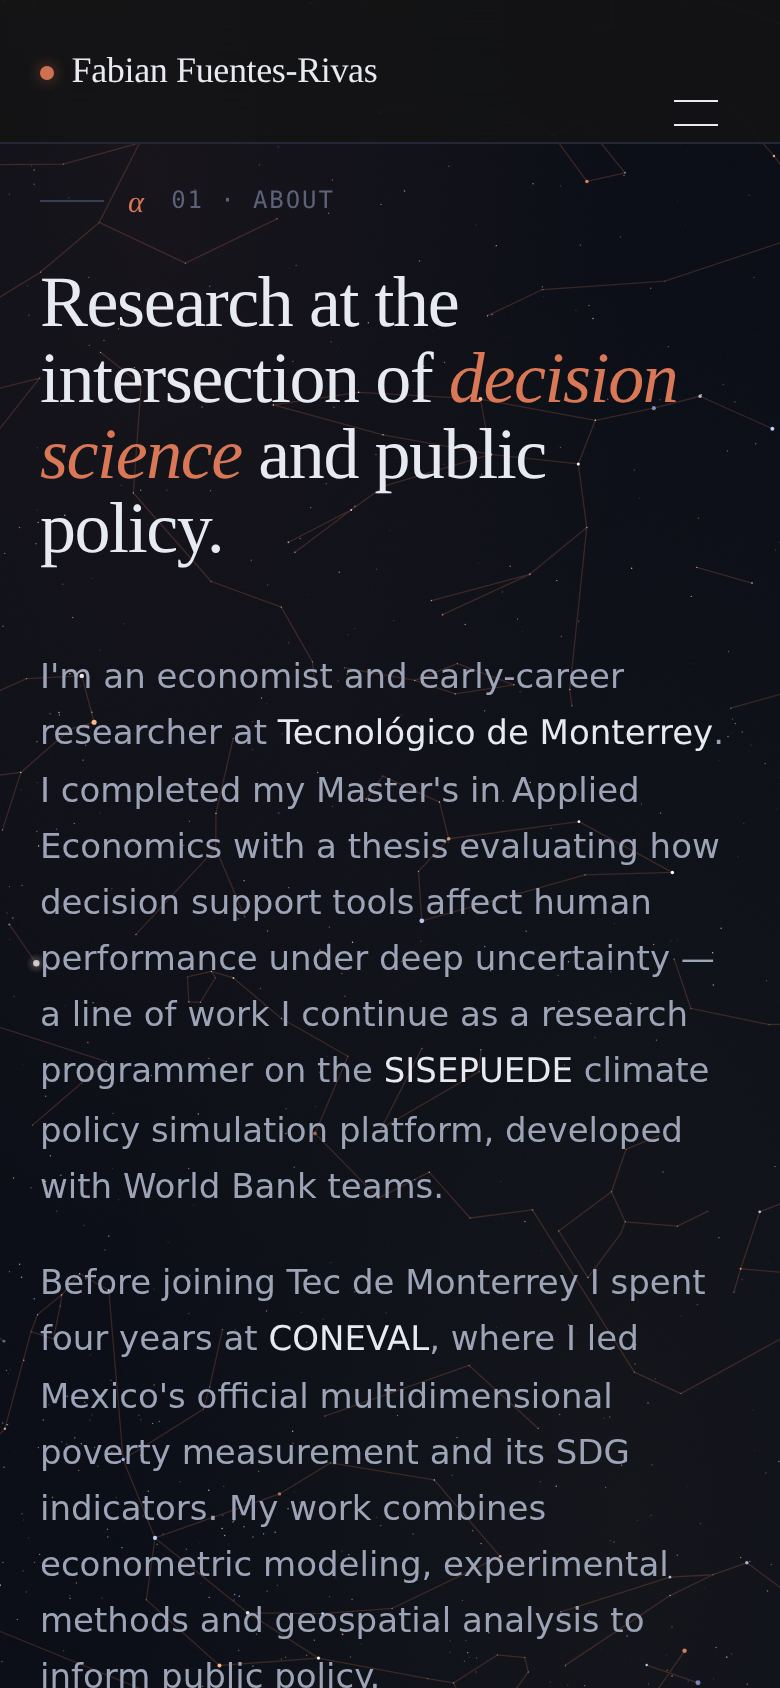
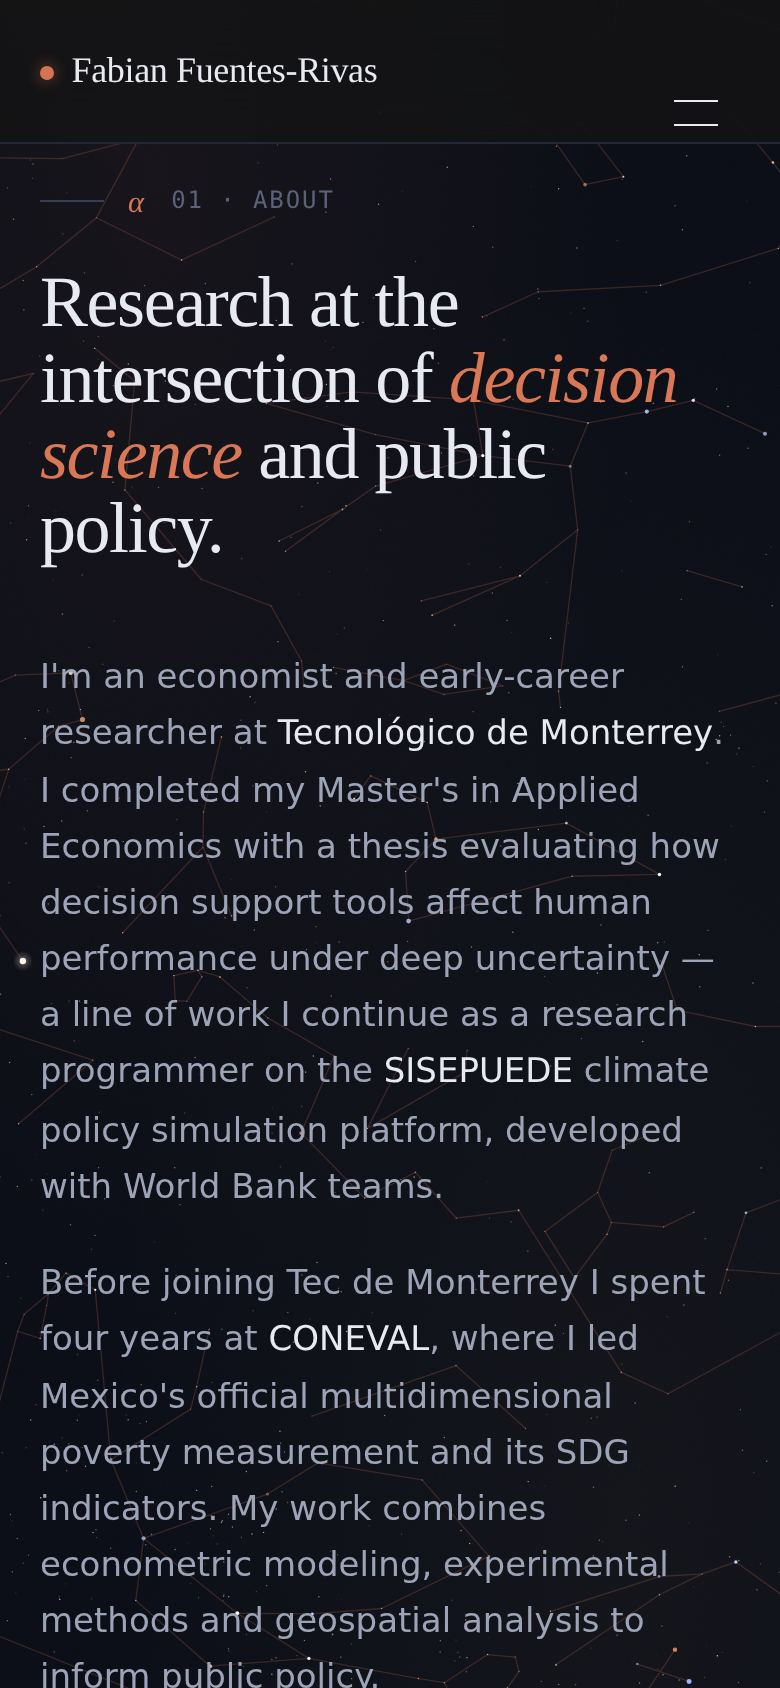
Adapt the live sky to each visitor's location via IP geolocation
The starfield already supported per-observer reprojection but the only
way the viewer's location got applied was via the browser geolocation
prompt — intrusive and mostly ignored. Replace it with silent IP-based
geolocation so the sky automatically shows the stars above wherever the
visitor happens to be reading from.

Observer resolution:
- On first catalogue load, fire an asynchronous fetch to ipapi.co.
- If that fails (offline, CORS, rate limit) fall back to ipwho.is.
- If both fail the default Mexico City observer stays in place.
- Each request has a 3.5 s manual timeout and runs with cache: no-store
  so the lookup reflects the current network. No PII is stored on the
  page; only the returned latitude / longitude / city drive rendering.

UI update:
- Hero meta location pill is now a structured element with two dynamic
  spans (#hero-location-coord and #hero-location-city). When the IP
  lookup resolves, both are updated in place — 'Tonight · 51.5°N ·
  London' for a visitor in London, 'Tonight · 28.63°N · Chihuahua' for
  someone on that side of Mexico, and so on. Southern hemisphere is
  handled (°S suffix).
- If the lookup fails the pill keeps its default of Mexico City so the
  text never goes blank.

Sky projection:
- applyObserver() sets lat / lon / label atomically and triggers a
  reproject so the dome immediately reflects the new horizon.

Also:
- Removed the legacy navigator.geolocation flow, which prompted the
  user and was rarely granted.
[…]

Changed region(s): [[0.0923, 0.4005, 0.1231, 0.4313], [0.0308, 0.5545, 0.0615, 0.5853]]

diff --git a/js/script.js b/js/script.js
@@ -334,23 +334,71 @@
     );
   }
 
-  // Optional: geolocate the user to reproject against their horizon.
-  // Silent — no prompt unless we explicitly request it below. We only
-  // ask once per visit and fall back to Mexico City.
-  function requestGeo() {
-    if (!("geolocation" in navigator)) return;
-    navigator.geolocation.getCurrentPosition(
-      (pos) => {
-        observer.lat = pos.coords.latitude;
-        observer.lon = pos.coords.longitude;
-        observer.label = "Your location";
-        if (stars.length) reproject();
+  // Update the hero location pill whenever the observer moves.
+  const coordEl = $("#hero-location-coord");
+  const cityEl  = $("#hero-location-city");
+
+  function formatLat(lat) {
+    const hemi = lat >= 0 ? "N" : "S";
+    return `${Math.abs(lat).toFixed(2)}°${hemi}`;
+  }
+
+  function applyObserver(lat, lon, label) {
+    observer.lat = lat;
+    observer.lon = lon;
+    observer.label = label;
+    if (coordEl) coordEl.textContent = formatLat(lat);
+    if (cityEl)  cityEl.textContent  = label;
+    if (stars.length) reproject();
+  }
+
+  // Silent IP-based geolocation — no browser prompt, no PII stored.
+  // We try two public services in sequence; on total failure the
+  // default Mexico City sky remains.
+  function locateByIp() {
+    const endpoints = [
+      {
+        url: "https://ipapi.co/json/",
+        parse: (d) =>
+          d && typeof d.latitude === "number" && typeof d.longitude === "number"
+            ? {
+                lat: d.latitude,
+                lon: d.longitude,
+                label: d.city || d.region || d.country_name,
+              }
+            : null,
       },
-      () => {
-        /* user denied or unavailable — keep Mexico City */
+      {
+        url: "https://ipwho.is/",
+        parse: (d) =>
+          d && d.success !== false && typeof d.latitude === "number"
+            ? { lat: d.latitude, lon: d.longitude, label: d.city || d.country }
+            : null,
       },
-      { timeout: 6000, maximumAge: 60 * 60 * 1000 }
-    );
+    ];
+
+    const withTimeout = (promise, ms) =>
+      Promise.race([
+        promise,
+        new Promise((_, rej) => setTimeout(() => rej(new Error("timeout")), ms)),
+      ]);
+
+    (async () => {
+      for (const ep of endpoints) {
+        try {
+          const r = await withTimeout(fetch(ep.url, { cache: "no-store" }), 3500);
+          if (!r.ok) continue;
+          const d = await r.json();
+          const loc = ep.parse(d);
+          if (!loc || !loc.label) continue;
+          applyObserver(loc.lat, loc.lon, loc.label);
+          return;
+        } catch (_) {
+          /* try next endpoint */
+        }
+      }
+      // Nothing worked — leave Mexico City in place.
+    })();
   }
 
   // Fetch the star and constellation catalogs in parallel and swap the
@@ -364,7 +412,7 @@
     .then((data) => {
       stars = data;
       reproject();
-      requestGeo();
+      locateByIp();
     })
     .catch(() => {
       // Catalog unavailable — keep the random placeholder.

diff --git a/index.html b/index.html
@@ -118,7 +118,13 @@
         </div>
         <div class="hero__inner">
           <div class="hero__meta" data-reveal>
-            <span class="hero__meta-item"><span class="dot" aria-hidden="true"></span>Tonight &middot; 19.43°N &middot; Mexico City</span>
+            <span class="hero__meta-item" id="hero-location">
+              <span class="dot" aria-hidden="true"></span>
+              <span>Tonight &middot; </span>
+              <span id="hero-location-coord">19.43°N</span>
+              <span> &middot; </span>
+              <span id="hero-location-city">Mexico City</span>
+            </span>
             <span class="hero__meta-item">Economist · Researcher</span>
             <span class="hero__meta-item">Tec de Monterrey</span>
           </div>
